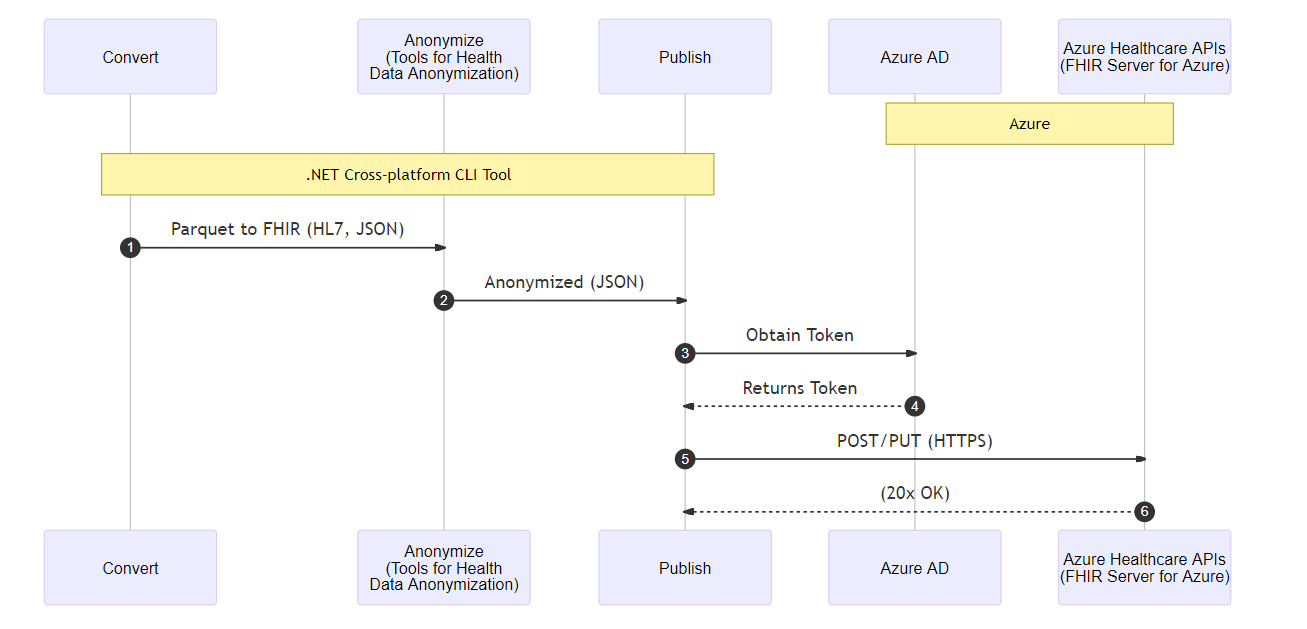
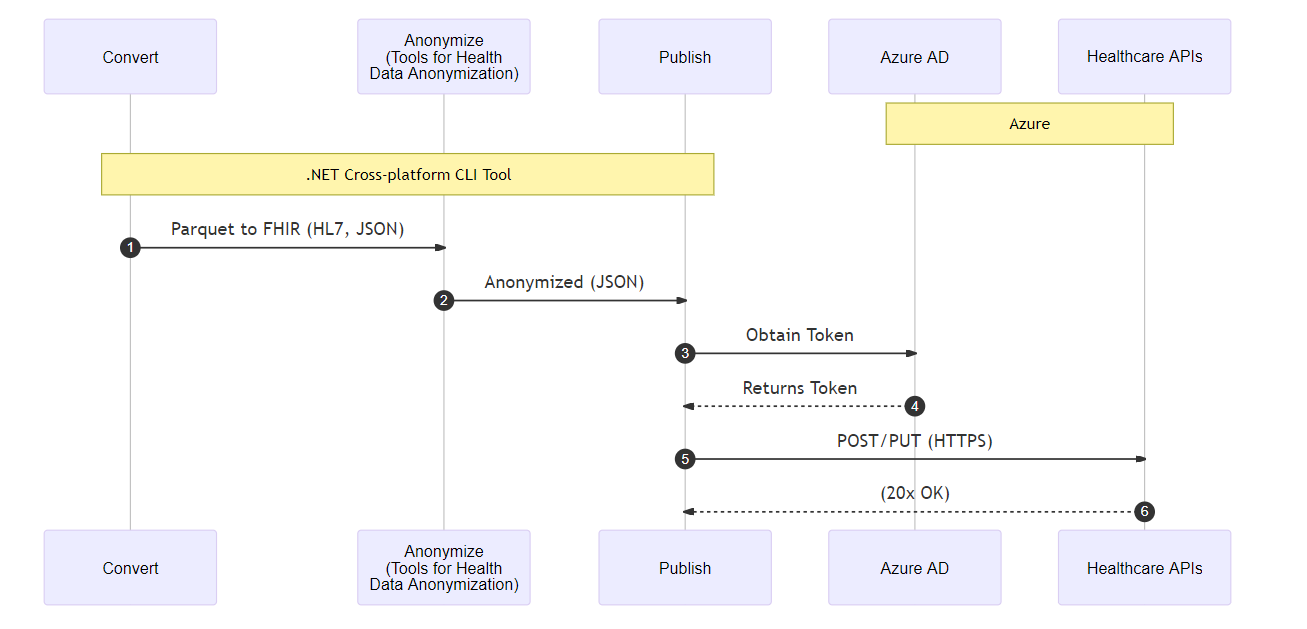
change fhir server name to healthcare apis

Changed region(s): [[0.7957, 0.876, 0.9487, 0.9364], [0.7957, 0.0604, 0.9487, 0.1208]]

diff --git a/src/FhirDataIngestionTool/src/FhirIngestion.Tools.Publisher/PublisherProcess.cs b/src/FhirDataIngestionTool/src/FhirIngestion.Tools.Publisher/PublisherProcess.cs
@@ -21,7 +21,7 @@
     using Polly.Contrib.WaitAndRetry;
 
     /// <summary>
-    /// The process for Publishing FHIR (ND)JSON files to Azure API for FHIR.
+    /// The process for Publishing FHIR (ND)JSON files to Healthcare APIs.
     /// Major Source: https://github.com/hansenms/FhirLoader.
     /// </summary>
     public class PublisherProcess : BaseProcess, IDisposable

diff --git a/src/FhirDataIngestionTool/docs/technical/fhir-bundle-file-generation.md b/src/FhirDataIngestionTool/docs/technical/fhir-bundle-file-generation.md
@@ -117,7 +117,7 @@ These extensions are added to all individual resources in the bundle, you can de
 
 ## Posting Bundles files to FHIR server
 
-We're using `Azure API for FHIR` as a server. And Azure API for FHIR is a REST API. So we're using `POST` method to post the bundle file to FHIR server. This API is currently not supporting `transaction` method. Instead of `transaction` we use `batch` method. The difference between both is on how the data will be processed:
+We're using `Healthcare APIs` as a server. And Healthcare APIs is a REST API. So we're using `POST` method to post the bundle file to FHIR server. This API is currently not supporting `transaction` method. Instead of `transaction` we use `batch` method. The difference between both is on how the data will be processed:
 
 * In the case of `transaction`, if one element fails, all the bundle fails
 * In the case of `batch`, it will upload anything valid and won't upload the failed one
